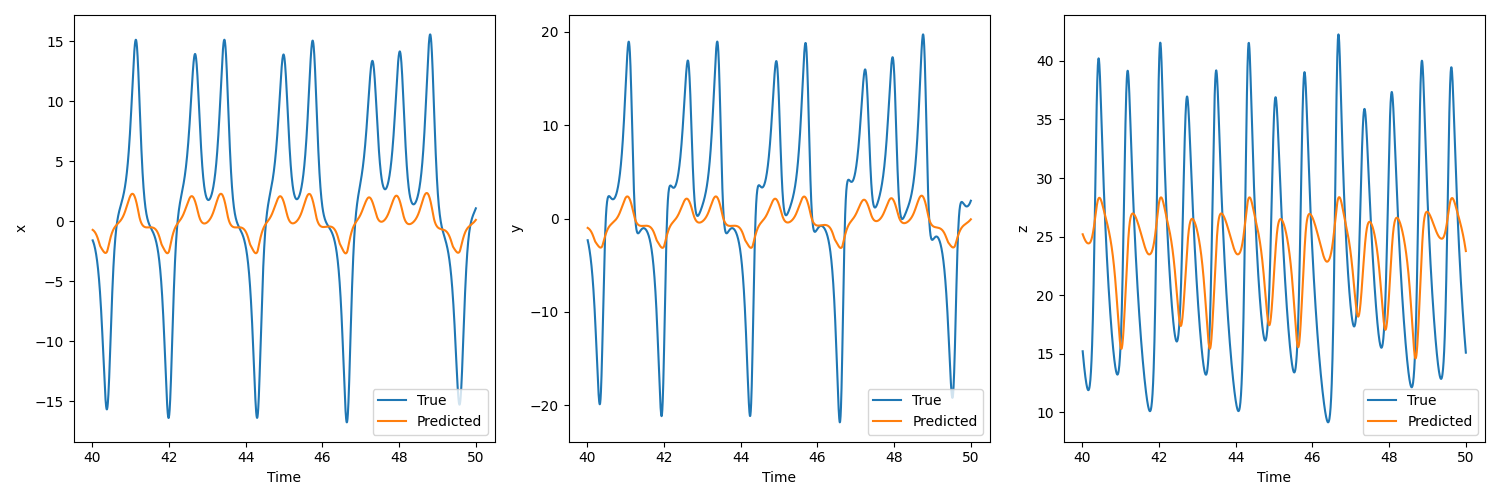
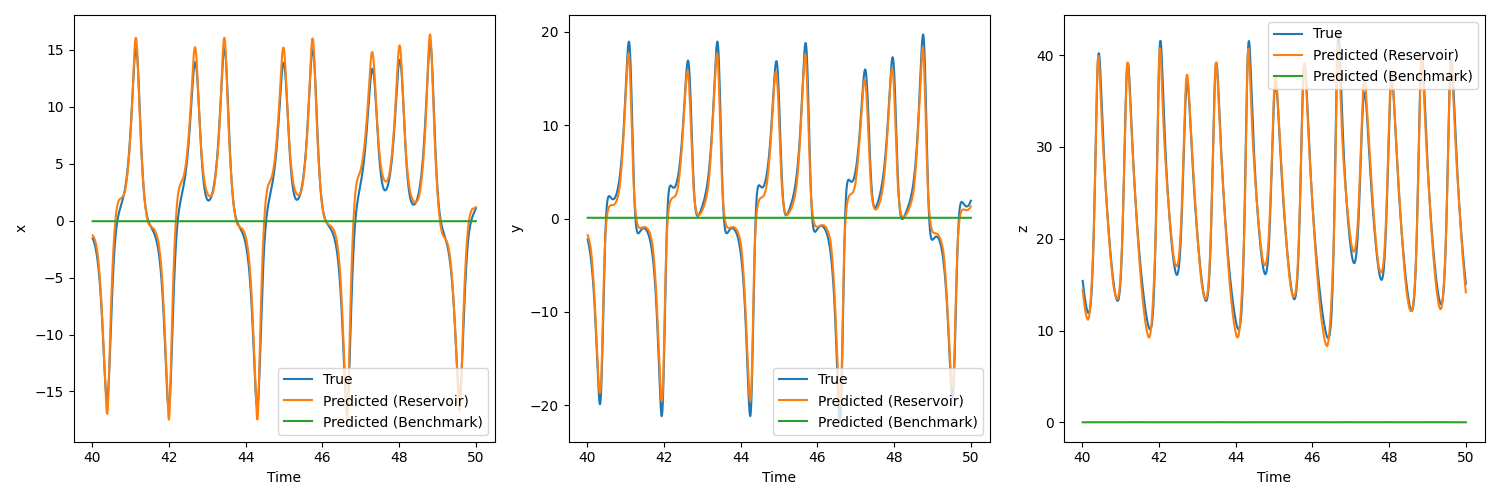
comparison

diff --git a/Lorenz/Lorenz.py b/Lorenz/Lorenz.py
@@ -5,19 +5,20 @@ import torch.optim as optim
 import matplotlib.pyplot as plt
 from Reservoirs.ESNReservoir import ESNReservoir
 from Reservoirs.LSTMReservoir import LSTMReservoir
-from Reservoirs.GRUReservoir import GRUReservoir
+from Benchmarks.LSTM import LSTM
 from Utils.DataLoader import loadData
 from Utils.DataEvaluator import evaluate
+import time
 
 torch.device('cuda' if torch.cuda.is_available() else 'cpu')
 
 # Load data from CSV
-df = pd.read_csv('lorenz_data.csv')
+df = pd.read_csv('Data/lorenz_data.csv')
 data = df[['x', 'y', 'z']].values
 t = df['time'].values
 
 # Define sequence length
-seq_len = 2
+seq_len = 1
 
 # Define the model parameters
 input_size = 3
@@ -28,15 +29,34 @@ output_size = 3
 train_dataloader, val_sequences_torch, val_targets_torch, val_t = loadData(data, t, seq_len)
 
 # use the Reservoir
-model = GRUReservoir(input_size, reservoir_size, output_size, seq_len=seq_len)
+model = LSTMReservoir(input_size, reservoir_size, output_size, seq_len=seq_len)
+modelBenchmark = LSTM(input_size, 256, output_size, seq_len=seq_len)
 
 # Define training parameters
 criterion = nn.MSELoss()
-optimizer = optim.Adam(model.parameters(), lr=0.0001)
-num_epochs = 1 # it will break with 0 epochs
+optimizer = optim.Adam(model.parameters(), lr=0.001)
+num_epochs = 5 # it will break with 0 epochs
 
+# start counting the time
+start = time.time()
 # Train the model
-val_predictions_np, val_target_np, moel, losses = evaluate(num_epochs, criterion, optimizer, model, train_dataloader, val_sequences_torch, val_targets_torch)
+val_predictions_np, val_target_np, model, losses = (
+    evaluate(num_epochs, criterion, optimizer, model, train_dataloader, val_sequences_torch, val_targets_torch))
+
+# stop counting the time
+end = time.time()
+print('Time elapsed: ', end - start)
+
+optimizer = optim.Adam(model.parameters(), lr=0.001)
+# start counting the time
+start = time.time()
+# Train the benchmark model
+val_predictions_np_benchmark, val_target_np_benchmark, modelBenchmark, lossesBenchmark = (
+    evaluate(num_epochs, criterion, optimizer, modelBenchmark, train_dataloader, val_sequences_torch, val_targets_torch))
+
+# stop counting the time
+end = time.time()
+print('Time elapsed: ', end - start)
 
 # Plotting the predictions
 plt.figure(figsize=(15, 5))
@@ -45,7 +65,8 @@ stepToShow = min(seq_len - 1, 4)
 for i, var_name in enumerate(['x', 'y', 'z']):
     plt.subplot(1, 3, i+1)
     plt.plot(val_t[seq_len:], val_target_np[:, stepToShow, i], label='True')
-    plt.plot(val_t[seq_len:], val_predictions_np[:, stepToShow, i], label='Predicted')
+    plt.plot(val_t[seq_len:], val_predictions_np[:, stepToShow, i], label='Predicted (Reservoir)')
+    plt.plot(val_t[seq_len:], val_predictions_np_benchmark[:, stepToShow, i], label='Predicted (Benchmark)')
     plt.xlabel('Time')
     plt.ylabel(var_name)
     plt.legend()
